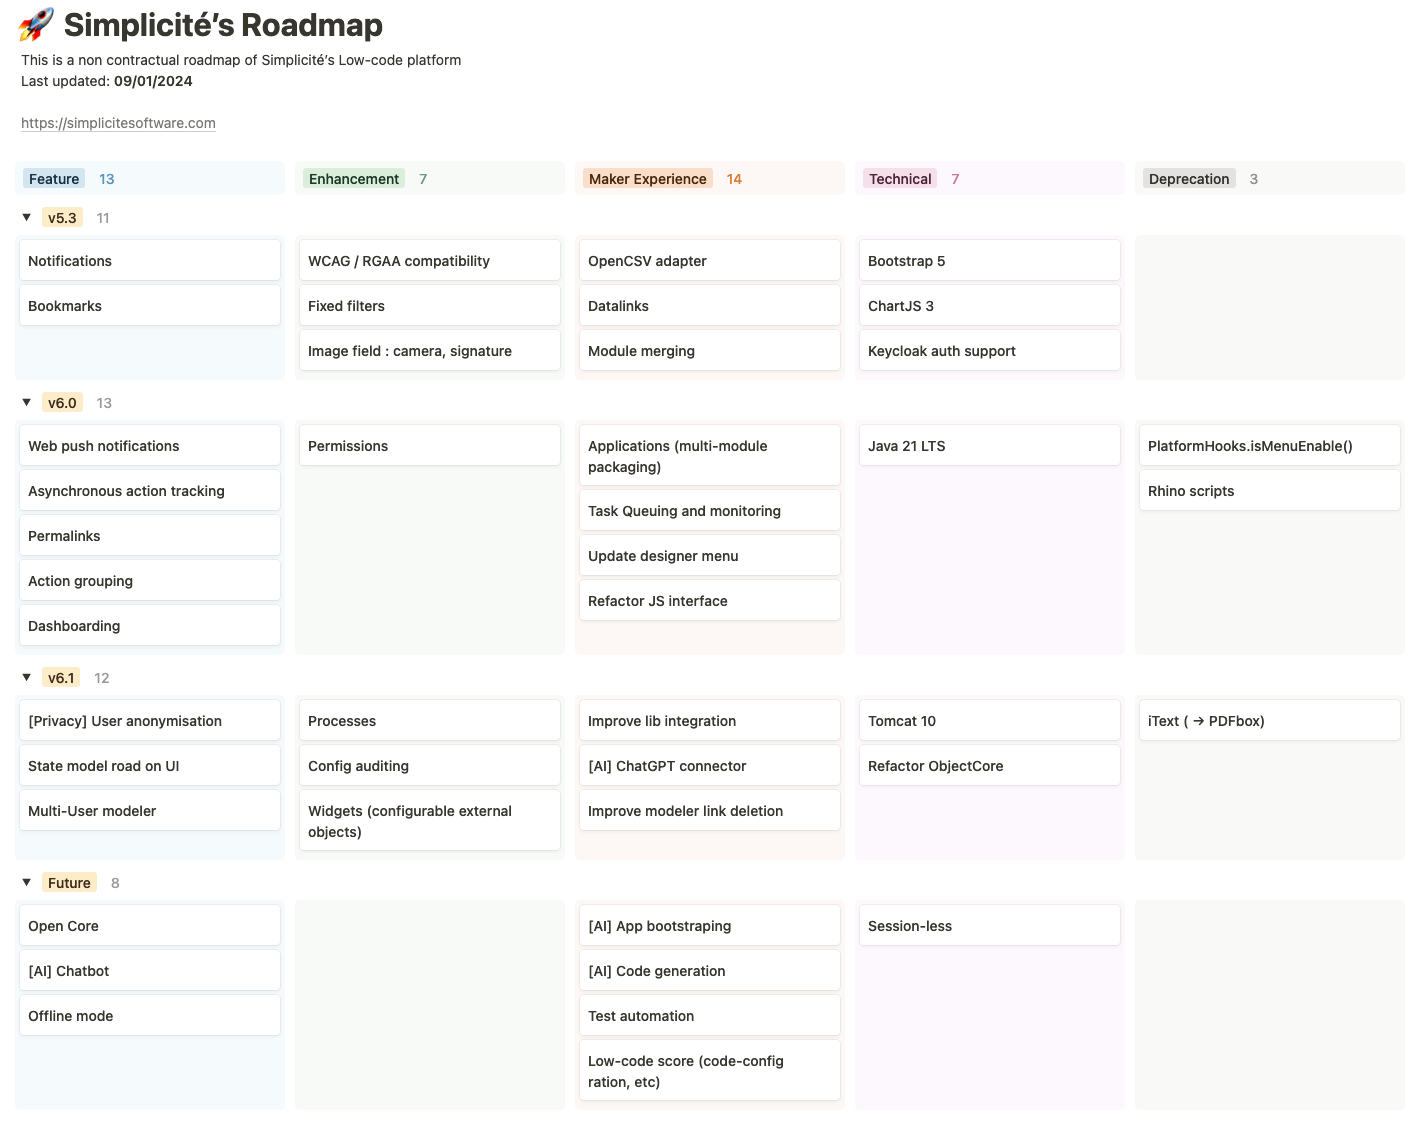
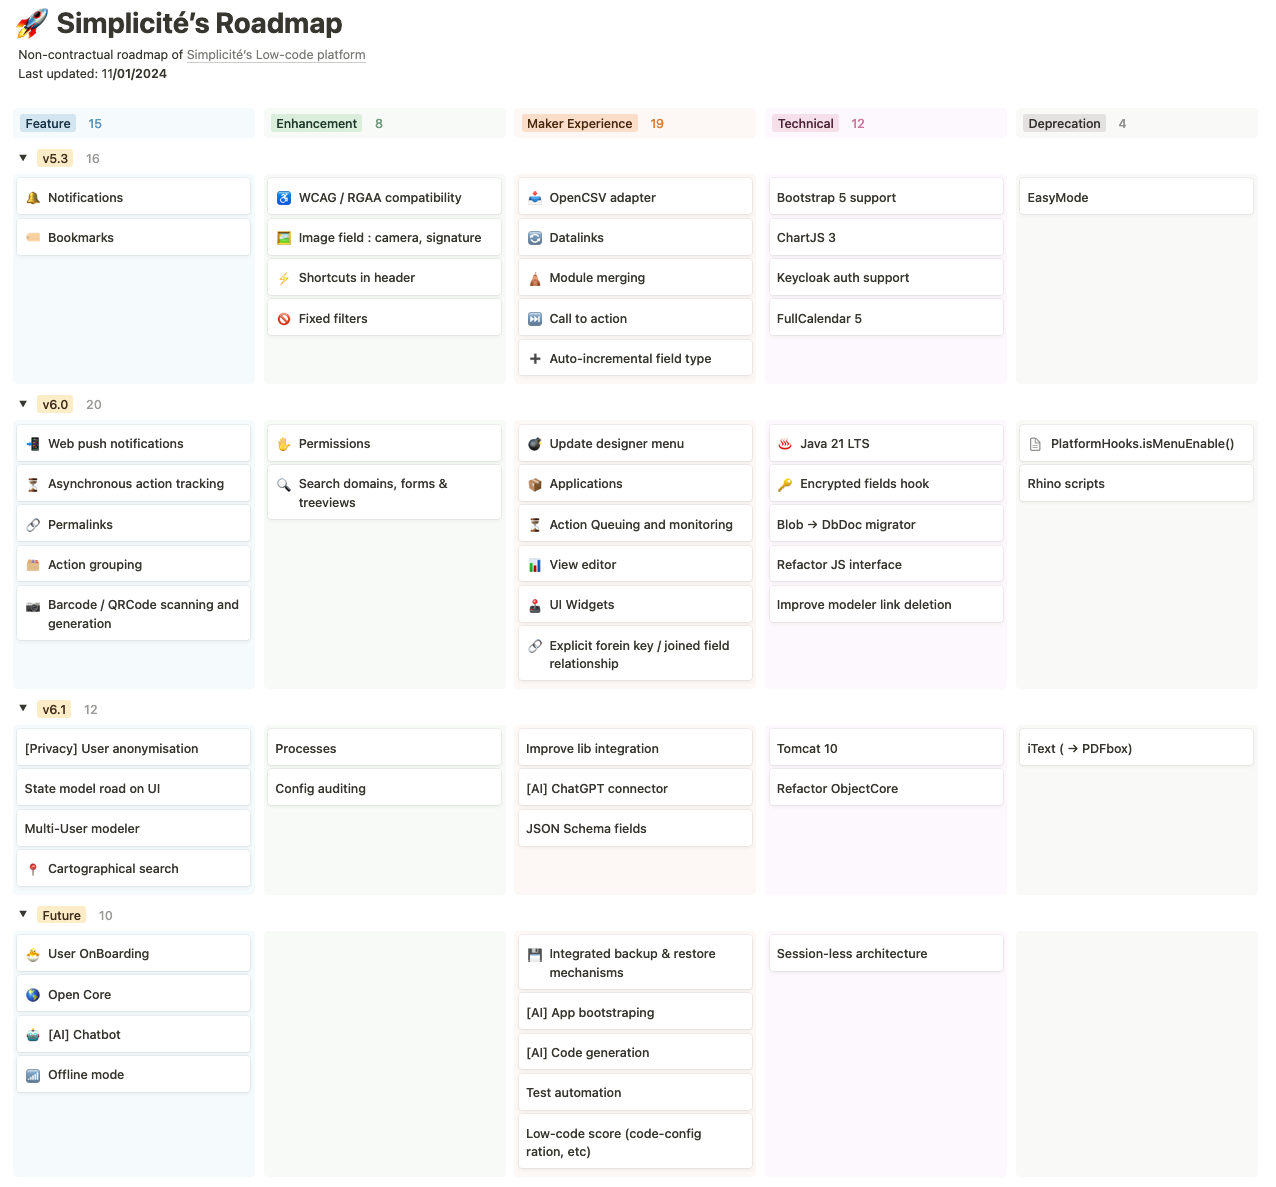
update roadmap

diff --git a/content/CTG_50_docs/LSN_160_roadmap/roadmap.md b/content/CTG_50_docs/LSN_160_roadmap/roadmap.md
@@ -1,3 +1,5 @@
+<a href="https://simplicite.notion.site/6c1ec0ab3df249c489782b20625761fd?v=c693a34d0f984a76bdaa6bffc3a1e10c" target="_blank">
 ![Roadmap](roadmap.png)
+</a>
 
 For feature requests, please post in [the dedicated category in our forum](https://community.simplicite.io/c/feature-request/46)
